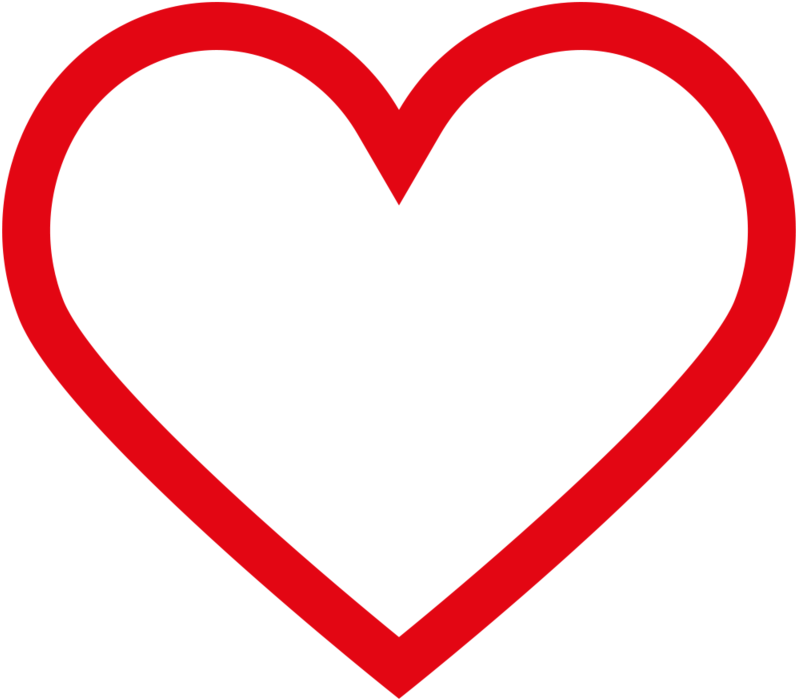
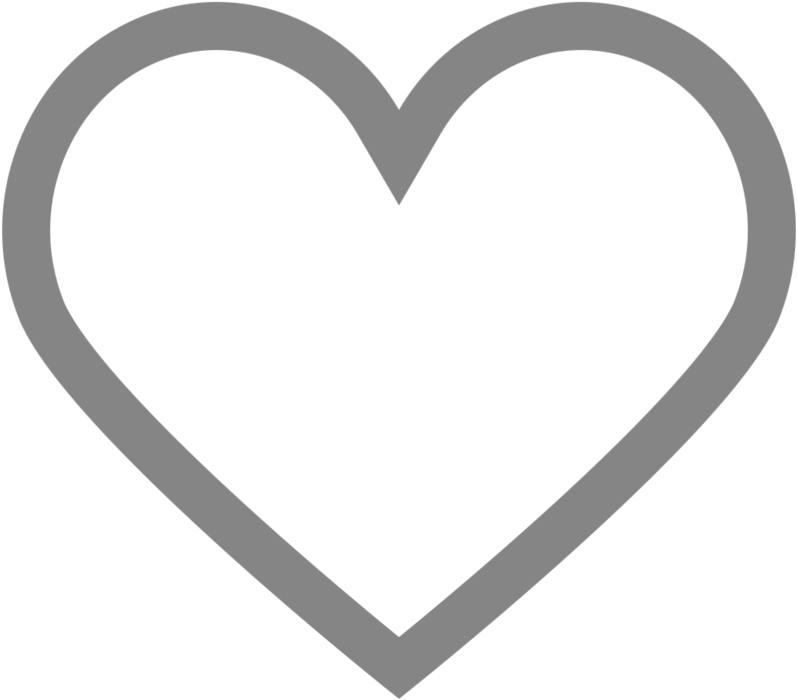
checked logs and styles

Changed region(s): [[0.0, 0.0, 1.0, 1.0]]

diff --git a/src/screens/LoginScreen.js b/src/screens/LoginScreen.js
@@ -20,16 +20,15 @@ export const LoginScreen = ({navigation}) => {
   };
 
   const onButtonPress = async () => {
-    await AsyncStorage.setItem('token', email);
+    // await AsyncStorage.setItem('token', email);
     const regEmail = /^\w+([\.-]?\w+)*@\w+([\.-]?\w+)*(\.\w\w+)+$/;
     const regPassword = /^[a-zA-Z0-9!@#$%^&*]{8,}$/;
     if (regEmail.test(email) === true && password.match(regPassword)) {
-      console.log('valid');
+      await AsyncStorage.setItem('token', email);
       setPassword('');
       setEmail('');
       navigation.navigate('TopTabNavigator');
     } else {
-      console.log('unvalid!!');
       setAlert(true);
     }
   };
@@ -39,7 +38,6 @@ export const LoginScreen = ({navigation}) => {
     if (value !== null) {
       navigation.navigate('TopTabNavigator');
     } else {
-      console.log('error');
     }
   };
 
@@ -58,14 +56,22 @@ export const LoginScreen = ({navigation}) => {
           <View style={styles.loginInfo}>
             <TextInput
               placeholder="Логин"
-              style={styles.input}
+              style={
+                alert
+                  ? {...styles.input, borderColor: THEME.RED_COLOR}
+                  : styles.input
+              }
               onChangeText={value => onChangeEmail(value)}
               value={email}
             />
             <TextInput
               secureTextEntry
               placeholder="Пароль"
-              style={styles.input}
+              style={
+                alert
+                  ? {...styles.input, borderColor: THEME.RED_COLOR}
+                  : styles.input
+              }
               onChangeText={value => onChangePassword(value)}
               value={password}
             />
@@ -79,8 +85,6 @@ export const LoginScreen = ({navigation}) => {
           <View style={styles.button}>
             <CustomButton onPress={onButtonPress} title={'Войти'} />
           </View>
-          <Text style={{color: '#fff'}}>{email}</Text>
-          <Text style={{color: '#fff'}}>{password}</Text>
         </View>
       </ImageBackground>
     </View>

diff --git a/src/screens/HotelScreen.js b/src/screens/HotelScreen.js
@@ -1,5 +1,6 @@
 import React from 'react';
 import {
+  Alert,
   Image,
   ImageBackground,
   ScrollView,
@@ -47,14 +48,13 @@ export const HotelScreen = ({route, navigation: {goBack, navigate}}) => {
             <TouchableOpacity onPress={() => goBack()}>
               <Image source={require('../assets/img/goBack.png')} />
             </TouchableOpacity>
-
             <TouchableOpacity onPress={changeSelectParam}>
               <Image
                 style={styles.heartImg}
                 source={
                   hotel.selected
                     ? require('../assets/img/heart_full.png')
-                    : require('../assets/img/heart_empty.png')
+                    : require('../assets/img/heart_empty_white.png')
                 }
               />
             </TouchableOpacity>
@@ -118,7 +118,7 @@ export const HotelScreen = ({route, navigation: {goBack, navigate}}) => {
           </View>
           <View style={styles.bookingButton}>
             <CustomButton
-              onPress={() => console.log('Booked!')}
+              onPress={() => Alert.alert('Бронь прошла успешно!')}
               title={'Забронировать'}
             />
           </View>
@@ -149,11 +149,13 @@ const styles = StyleSheet.create({
     textShadowRadius: 5,
   },
   imageBackgroundButtons: {
+    paddingHorizontal: 5,
+    alignItems: 'center',
+    justifyContent: 'space-between',
     flexDirection: 'row',
     position: 'absolute',
-    top: -170,
+    top: -180,
     width: '100%',
-    justifyContent: 'space-between',
   },
   heartImg: {
     width: 29,

diff --git a/src/screens/SearchResultsScreen.js b/src/screens/SearchResultsScreen.js
@@ -28,7 +28,7 @@ export const SearchResultsScreen = ({navigation}) => {
       <View style={styles.container}>
         <View style={styles.searchResutls}>
           <View style={styles.listHeader}>
-            <Text style={styles.header}>Подходящие бронирования</Text>
+            <Text style={styles.header}>Подходящие бронирования:</Text>
             <TouchableOpacity onPress={onExit}>
               <Image
                 style={styles.exitImg}

diff --git a/src/store/sagas.js b/src/store/sagas.js
@@ -1,11 +1,9 @@
 import React from 'react';
-import {useSelector} from 'react-redux';
 import {call, put, takeEvery} from 'redux-saga/effects';
 import {setHotels} from './actions';
 import {LOAD_DATA} from './types';
 
 function fetchData(data) {
-  console.log(JSON.stringify(data));
   return fetch(
     `https://engine.hotellook.com/api/v2/cache.json?location=${data.city}&currency=rub&checkIn=${data.dateCheckIn}&checkOut=${data.dateCheckOut}&limit=10`,
   ).then(response => {

diff --git a/src/components/SearchBlock.js b/src/components/SearchBlock.js
@@ -44,6 +44,7 @@ export const SearchBlock = ({navigation}) => {
     <View style={styles.container}>
       <View style={styles.appHeader}>
         <Text style={styles.headerName}>Simple Hotel Check</Text>
+
         {/* <TouchableOpacity onPress={() => console.log('exit')}>
           <Image
             style={styles.exitImg}

diff --git a/src/assets/theme.js b/src/assets/theme.js
@@ -5,4 +5,5 @@ export const THEME = {
   GRAY_COLOR: '#686868',
   GREEN_COLOR: '#6AAF75',
   LIGHT_GREEN_COLOR: '#dbe6dc',
+  RED_COLOR: '#FF3B30',
 };
